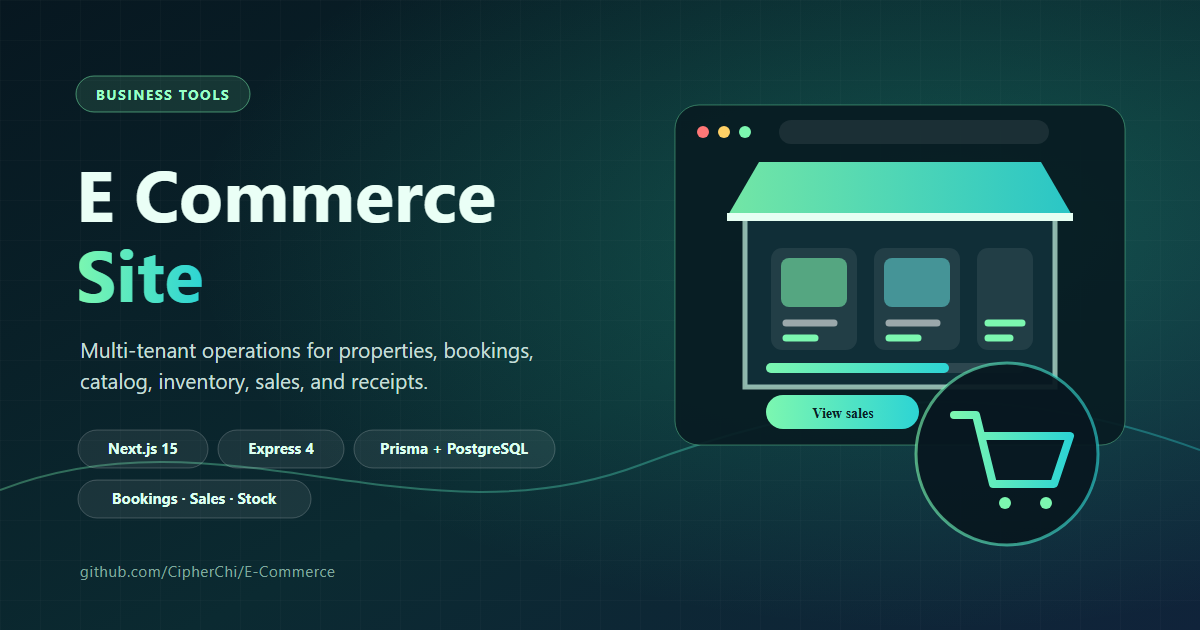
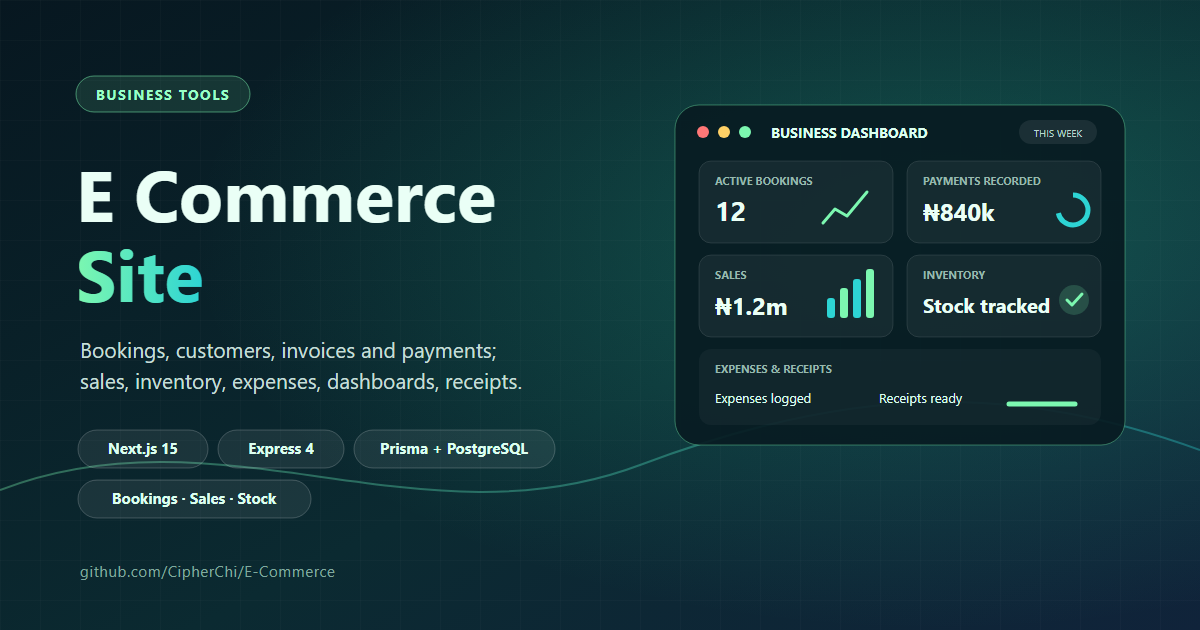
fix(cover): show tenant operations dashboard

Changed region(s): [[0.5858, 0.181, 0.925, 0.8746], [0.0617, 0.5429, 0.4625, 0.6333]]

diff --git a/apps/web/test/e2e/retail-core.spec.ts b/apps/web/test/e2e/retail-core.spec.ts
@@ -253,7 +253,7 @@ test('reservation booking moves through confirmation, check-in, and checkout', a
   test.setTimeout(120_000);
   const suffix = `${Date.now()}-${Math.random().toString(36).slice(2, 8)}`;
   const email = `reservation-${suffix}@example.test`;
-  const password = 'ReservationFlow!2026';
+  const password = 'tenant-test-password-123';
   const customerName = `Reservation Guest ${suffix}`;
   const businessName = `Reservation Business ${suffix}`;
   const propertyName = `Reservation Property ${suffix}`;
